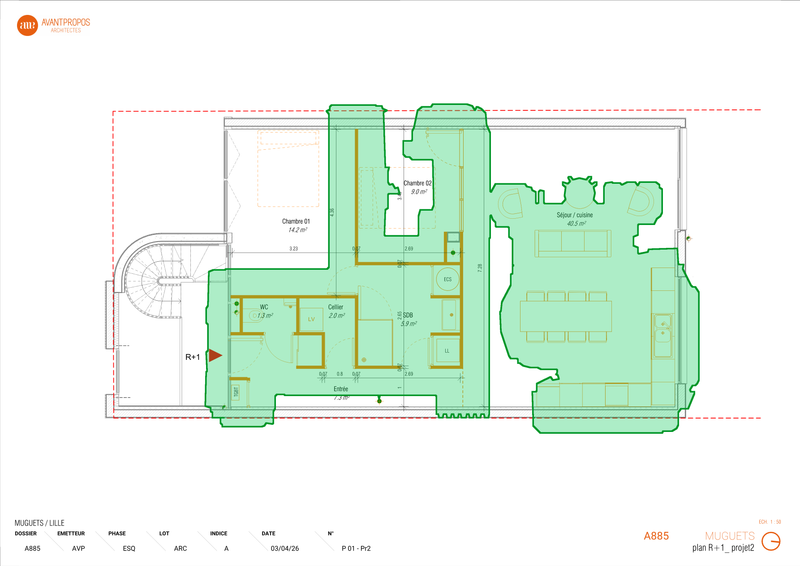
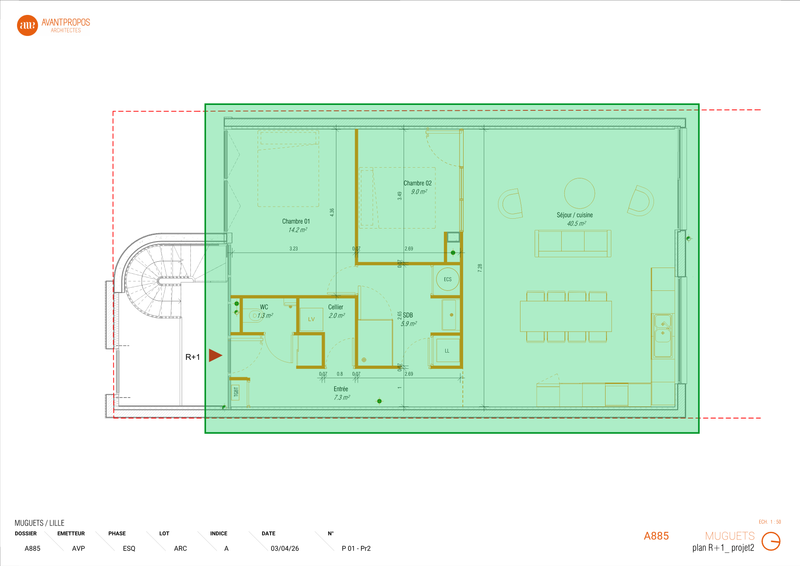
feat(vs/s27): polygone lot = rectangle simple (4 sommets, mode bbox)
Préférence fondateur (s27 itération finale) : un rectangle propre qui
englobe l'appartement, pas un contour suivant chaque coude de mur.

Algo bbox :
1. Mask orange + zone habitable (inchangé)
2. Plus grande composante connectée seulement (singleCluster=false)
3. Axis-aligned bounding box → 4 sommets
4. Snap court (≤ 2*stride) sur le pixel orange périphérique le plus proche

Validation 4 plans Muguets :
- RDC : ✓ T3 framed, escalier exclu, terrasse exclue
- R+1 : ✓ T3+ framed, escalier exclu
- R+2 : ✓ Chambre 01 maintenant capturée (gain vs trace mode)
- R+3 : ✓ T2 framed, terrasse hachurée exclue

Diagnostic SSR : assertion polygon size resserrée à ≤ 8 sommets (rect simple).

diff --git a/versi-studio/src/lib/vs/color-mask-extractor.ts b/versi-studio/src/lib/vs/color-mask-extractor.ts
@@ -77,6 +77,13 @@ export type ColorMaskOptions = {
    * Default : sampleStride * 30.
    */
   habitableRadius?: number;
+  /**
+   * Mode de sortie polygone :
+   *  - 'bbox' : axis-aligned bounding box (4 sommets, simple rectangle)
+   *  - 'trace' : Moore boundary trace + snap-to-wall (polygone détaillé qui suit chaque coude)
+   * Default : 'bbox'.
+   */
+  outputMode?: "bbox" | "trace";
 };
 
 export type ColorRange = {
@@ -133,6 +140,7 @@ export async function extractLotsByColorMask(
   const singleCluster = options.singleCluster ?? true;
   const useMarchingSquares = options.useMarchingSquares ?? true;
   const snapRadius = options.snapRadius ?? sampleStride * 8;
+  const outputMode = options.outputMode ?? "bbox";
   const ratioMin = options.habitableRatioRange?.[0] ?? 0.005;
   const ratioMax = options.habitableRatioRange?.[1] ?? 0.3;
 
@@ -266,13 +274,59 @@ export async function extractLotsByColorMask(
     singleCluster ? sigComps.flatMap((c) => c) : sigComps[0];
   const sortedClusters: Pt[][] = singleCluster ? [allHabitablePts] : sigComps;
 
-  // 6. Pour chaque cluster, tracer le polygone : Moore boundary trace
-  //    sur le masque habitable binaire (suit exactement le bord à 1 cellule),
-  //    PUIS snap-to-wall (chaque sommet projeté sur le pixel orange le plus
-  //    proche dans rayon snapRadius), PUIS Douglas-Peucker.
+  // 6. Pour chaque cluster, soit bbox simple (mode 'bbox' = 4 sommets),
+  //    soit Moore boundary trace + snap-to-wall (mode 'trace' = polygone détaillé).
   const polygons: Pt[][] = [];
   for (let cIdx = 0; cIdx < sortedClusters.length; cIdx++) {
     const cluster = sortedClusters[cIdx];
+
+    if (outputMode === "bbox") {
+      // Axis-aligned bounding box du cluster habitable. Pas de snap large
+      // (qui irait chercher les murs de la terrasse). On élargit juste de
+      // sampleStride pour englober le mur orange périphérique le plus proche.
+      let minX = Infinity, minY = Infinity, maxX = -Infinity, maxY = -Infinity;
+      for (const p of cluster) {
+        if (p.x < minX) minX = p.x;
+        if (p.x > maxX) maxX = p.x;
+        if (p.y < minY) minY = p.y;
+        if (p.y > maxY) maxY = p.y;
+      }
+      // Snap court (≤ sampleStride * 2) vers l'extérieur pour aligner sur
+      // le mur orange périphérique le plus proche, sans déborder.
+      const search = sampleStride * 2;
+      const snapBorder = (val: number, axis: "x" | "y", min: number, max: number, dir: -1 | 1) => {
+        let best = val;
+        if (axis === "x") {
+          for (let dx = 0; dx <= search; dx++) {
+            const x = val + dx * dir;
+            if (x < 0 || x >= W) break;
+            for (let y = Math.floor(min); y <= Math.ceil(max); y += 4) {
+              if (orangeMask[y * W + x] === 1) { best = x; return best; }
+            }
+          }
+        } else {
+          for (let dy = 0; dy <= search; dy++) {
+            const y = val + dy * dir;
+            if (y < 0 || y >= H) break;
+            for (let x = Math.floor(min); x <= Math.ceil(max); x += 4) {
+              if (orangeMask[y * W + x] === 1) { best = y; return best; }
+            }
+          }
+        }
+        return best;
+      };
+      const left = snapBorder(minX, "x", minY, maxY, -1);
+      const right = snapBorder(maxX, "x", minY, maxY, 1);
+      const top = snapBorder(minY, "y", minX, maxX, -1);
+      const bottom = snapBorder(maxY, "y", minX, maxX, 1);
+      polygons.push([
+        { x: left, y: top },
+        { x: right, y: top },
+        { x: right, y: bottom },
+        { x: left, y: bottom },
+      ]);
+      continue;
+    }
 
     let hull: Pt[];
     if (useMarchingSquares) {

diff --git a/versi-studio/src/app/api/vs/diagnostics/pipeline-new/route.ts b/versi-studio/src/app/api/vs/diagnostics/pipeline-new/route.ts
@@ -53,12 +53,10 @@ export async function GET() {
       sampleStride: 4,
       habitableRadius: 120,
       habitableRatioRange: [0.005, 0.3],
-      simplifyTolerance: 3,
-      snapRadius: 16,
-      useMarchingSquares: true,
       excludeTopFraction: 0.18,
       excludeBottomFraction: 0.18,
-      singleCluster: true,
+      singleCluster: false,
+      outputMode: "bbox",
     });
 
     const duration = Date.now() - t0;
@@ -82,7 +80,7 @@ export async function GET() {
       assertions: {
         has_polygon: !!mainPolygon && mainPolygon.length >= 3,
         polygon_reasonable_size: mainPolygon
-          ? mainPolygon.length >= 3 && mainPolygon.length <= 500
+          ? mainPolygon.length >= 3 && mainPolygon.length <= 8
           : false,
         has_mask_pixels: result.totalMaskPixels >= 1000,
       },

diff --git a/versi-studio/scripts/qa/autopilot-render-all.ts b/versi-studio/scripts/qa/autopilot-render-all.ts
@@ -27,7 +27,8 @@ const OPTS: ColorMaskOptions = {
   useMarchingSquares: true,
   excludeTopFraction: 0.18,
   excludeBottomFraction: 0.18,
-  singleCluster: true,
+  singleCluster: false,
+  outputMode: "bbox",
 };
 
 async function renderRaw(png: Buffer, poly: Pt[]): Promise<Buffer> {

diff --git a/versi-studio/scripts/qa/autopilot-render.ts b/versi-studio/scripts/qa/autopilot-render.ts
@@ -39,7 +39,8 @@ async function main() {
     useMarchingSquares: true,
     excludeTopFraction: 0.18,
     excludeBottomFraction: 0.18,
-    singleCluster: true,
+    singleCluster: false,
+    outputMode: "bbox",
   };
 
   const result = await extractLotsByColorMask(png, opts);
